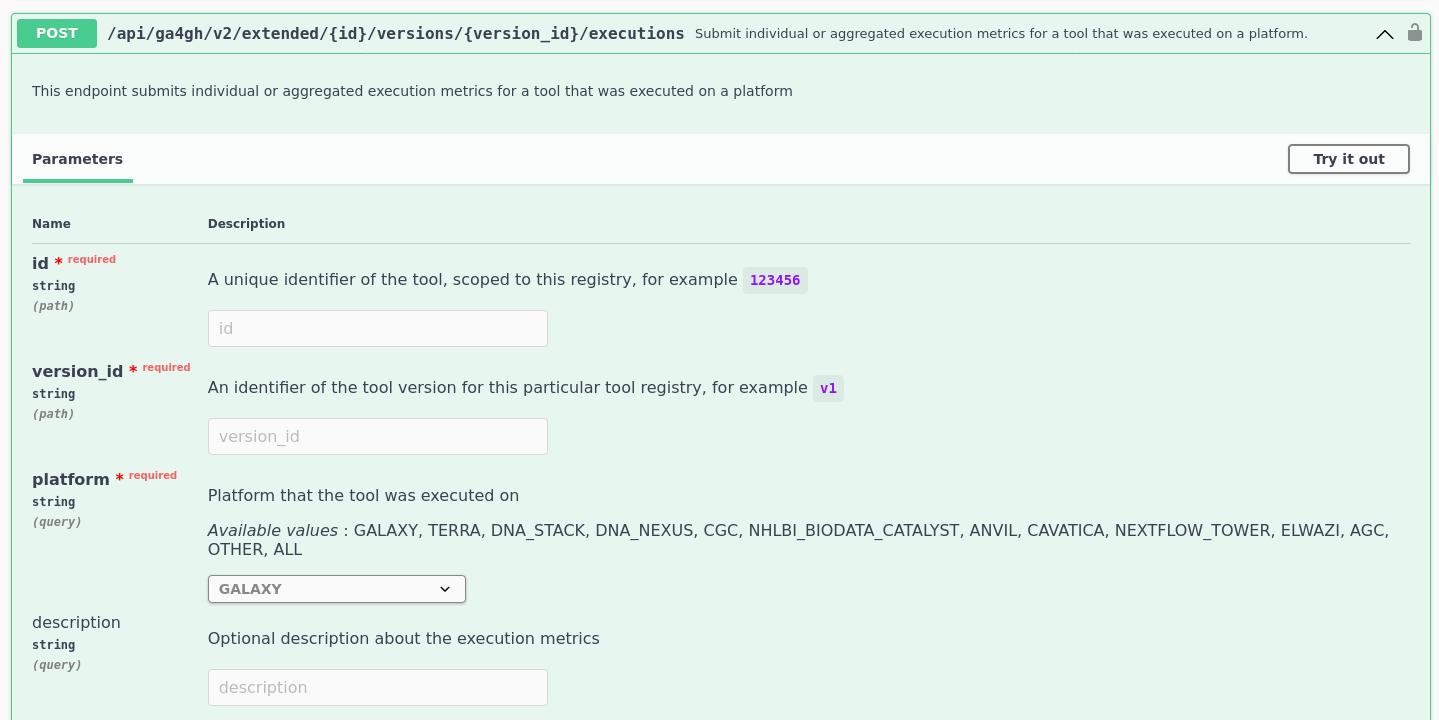
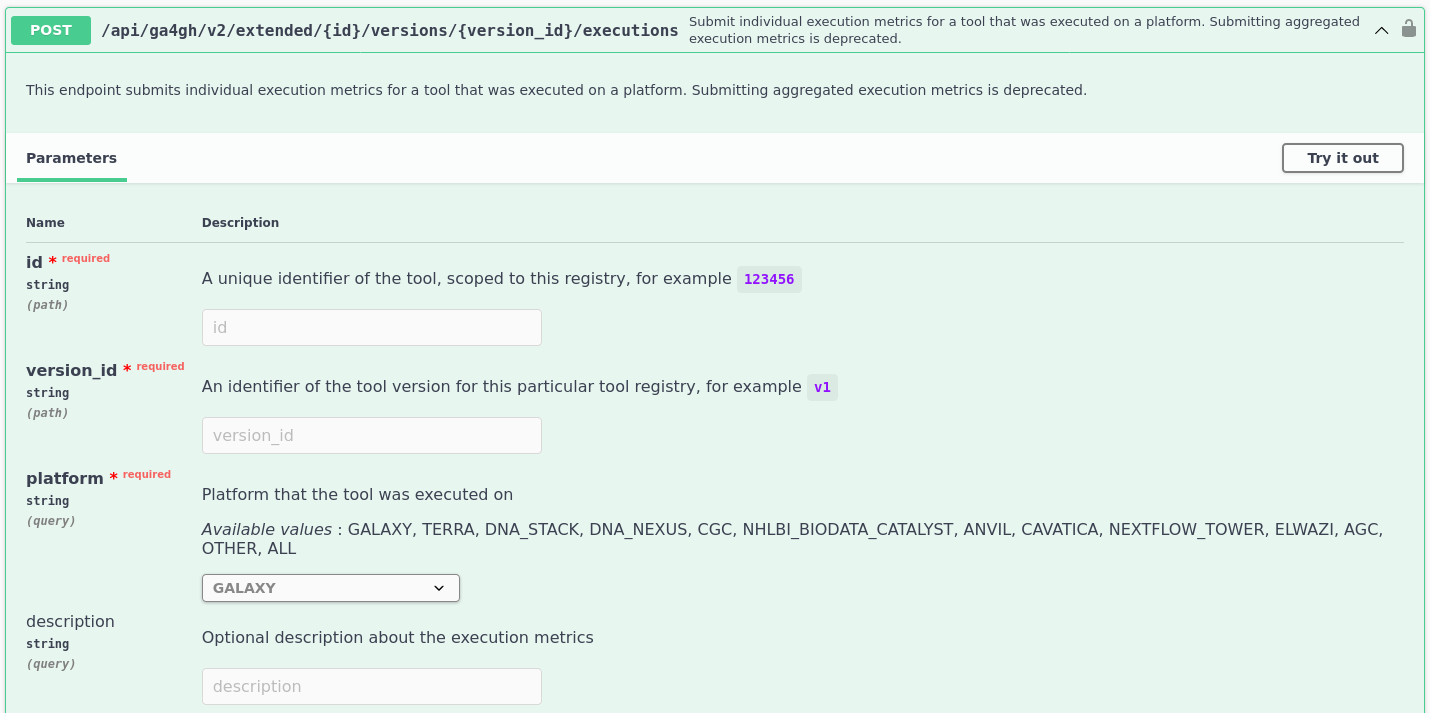
Update metrics docs

diff --git a/docs/advanced-topics/metrics.rst b/docs/advanced-topics/metrics.rst
@@ -1,8 +1,6 @@
 Workflow Metrics
 ================
 
-.. note:: Dockstore Workflow Metrics is currently in preview mode. Also note that the screenshots below were taken on our staging site.
-
 What are workflow metrics?
 ------------------------------------
 Workflow metrics are metrics of workflow executions on a platform. Metrics include things like the resources used during the execution, and how often workflow executions succeeded or failed.
@@ -23,15 +21,17 @@ As a platform owner, workflow metrics indicate to others that your platform is c
 How do I view workflow metrics?
 -------------------------------
 
-To view workflow metrics for a workflow on Dockstore, you will need to use the ``metrics`` feature flag.
+To search for workflows with metrics, navigate to the `search <https://dockstore.org/search>`_ page and select a platform for the Execution Metrics and/or Validation Metrics facets.
 
-To use the ``metrics`` feature flag, append ``metrics`` to the Dockstore URL as a query parameter. You only need to do this once, unless you refresh/close your browser.
+.. figure:: /assets/images/docs/submit-metrics/metrics-search-facets.png
+    :alt: Metrics search facets
 
-For example, if you're on the https://dockstore.org page, append ``metrics`` such that it looks like this: https://dockstore.org?metrics.
+Select a workflow and click on the Versions tab. Versions that have metrics will have a check mark in the Metrics column.
 
-If you're on a page that already contains query parameters, indicated by the presence of a question mark, append ``metrics`` to the URL using an ampersand. For example, if you're on the https://dockstore.org/workflows/github.com/gatk-workflows/seq-format-conversion/BAM-to-Unmapped-BAM:3.0.0?tab=info page, append ``metrics`` such that it looks like https://dockstore.org/workflows/github.com/gatk-workflows/seq-format-conversion/BAM-to-Unmapped-BAM:3.0.0?tab=info&metrics.
+.. figure:: /assets/images/docs/submit-metrics/versions-metrics-column.png
+    :alt: Metrics column in Versions table
 
-After applying the ``metrics`` feature flag, a Metrics tab will appear when viewing a workflow on Dockstore. Click on the Metrics tab and you will see workflow metrics if they are available.
+Select a version with metrics then click on the Metrics tab to view the metrics available.
 
 .. figure:: /assets/images/docs/submit-metrics/metrics-tab.png
     :alt: Metrics tab
@@ -41,13 +41,13 @@ How do I submit workflow metrics?
 
 .. note:: Submitting workflow metrics is only available for admins, curators, and platform partners. If you're a platform owner and you don't have a platform partner user, please contact us via our `GitHub <https://github.com/dockstore/dockstore/issues>`_ issues or open a helpdesk ticket on `Discourse <https://discuss.dockstore.org/>`_ and we will help you get set up.
 
-Go to https://dockstore.org/api/static/swagger-ui/index.html#/extendedGA4GH/executionMetricsPost. This is the endpoint used to submit metrics to Dockstore. Click the "Try it out” button.
+Go to https://dockstore.org/api/static/swagger-ui/index.html#/extendedGA4GH/executionMetricsPost and provide your Dockstore token using the lock icon at the top right of the endpoint. This is the endpoint used to submit metrics to Dockstore. Click the "Try it out” button.
 
-First, fill out the query parameters. This is where you'll input information about which workflow was executed and what platform it was executed on.
+First, fill out the parameters. This is where you'll input information about which workflow was executed and what platform it was executed on.
 
 For the ``id`` parameter, provide the TRS ID of the workflow that you want to submit metrics for. For example, the `dockstore-tool-bamstats <https://dockstore.org/workflows/github.com/dockstore/dockstore-tool-bamstats/wdl:1.25-9?tab=info>`__ workflow has the TRS ID ``#workflow/github.com/dockstore/dockstore-tool-bamstats/wdl`` as shown in the “Info” tab with the label “TRS".
 
-For the ``version_id`` parameter, provide the name of the workflow version that was executed. It can be any version listed in the "Versions" tab of the workflow. For example, `dockstore-tool-bamstats <https://dockstore.org/workflows/github.com/dockstore/dockstore-tool-bamstats/wdl:1.25-9?tab=versions>`__ has the following versions currently: 1.25-9 and develop. It is recommended to submit execution metrics for versions that are unlikely to change, like tags.
+For the ``version_id`` parameter, provide the name of the workflow version that was executed. It can be any version listed in the "Versions" tab of the workflow. For example, `dockstore-tool-bamstats <https://dockstore.org/workflows/github.com/dockstore/dockstore-tool-bamstats/wdl:1.25-9?tab=versions>`__ has the following versions currently: ``1.25-9`` and ``develop``. It is recommended to submit execution metrics for versions that are unlikely to change, like tags.
 
 Select the ``platform`` that the workflow was executed on from the available values.
 
@@ -56,44 +56,87 @@ For the ``description``, you may provide an optional description about the metri
 .. figure:: /assets/images/docs/submit-metrics/query-parameters.png
     :alt: Query parameters for submitting metrics
 
+.. _Submit metrics request body schema:
+
 In the request body, provide the workflow execution metrics that you want to submit. Click on Schema to view the schema of the request body.
 
 .. figure:: /assets/images/docs/submit-metrics/request-body-schema.png
     :alt: Request body schema for submitting metrics
 
-You can provide a individual executions through ``runExecutions`` and ``validationExecutions``.
+You can provide a individual executions through ``runExecutions``, ``taskExecutions``, and ``validationExecutions``.
 
-A run execution is an execution that runs the workflow. The only required metric for run executions is ``executionStatus``. If you want to provide additional metrics that are not defined in the schema, use the ``additionalProperties`` key to provide your metric.
+.. note::
+   Each execution must have a unique ``executionId`` for the workflow, workflow version, and platform that it belongs to. It is your responsibility to ensure the uniqueness of the execution IDs.
+
+A ``RunExecution`` is a workflow execution. The required fields are:
+
+- ``executionId``
+- ``dateExecuted``
+- ``executionStatus``
+
+If you want to provide additional metrics that are not defined in the schema, use the ``additionalProperties`` key to provide your metric.
 
 .. figure:: /assets/images/docs/submit-metrics/run-executions-schema.png
     :alt: Schema for run executions
 
-A validation execution is an execution of a validator tool, like miniwdl, on the workflow. The following are required for a validation execution: 
+A ``TaskExecution`` contains a list of task executions that were executed during a workflow execution. The required fields are:
 
+- ``executionId``
+- ``dateExecuted``
+- A list of ``taskExecutions``. A task execution follows the ``RunExecution`` schema.
+
+.. figure:: /assets/images/docs/submit-metrics/task-executions-schema.png
+    :alt: Schema for task executions
+
+A ``ValidationExecution`` is an execution of a validator tool, like miniwdl, on the workflow. The required fields are: 
+
+- ``executionId``
+- ``dateExecuted``
 - ``validatorTool``
 - ``validatorToolVersion``
 - ``isValid``
-- ``dateExecuted``
 
 If you want to provide additional metrics that are not defined in the schema, use the ``additionalProperties`` key to provide your metric.
 
 .. figure:: /assets/images/docs/submit-metrics/validation-executions-schema.png
     :alt: Schema for validation executions
-
-Instead of providing individual executions, you may also provide aggregated metrics that summarize data for multiple executions through ``aggregatedExecutions``. There are no required fields, but you must provide at least one metric. If you want to provide aggregated metrics that are not defined in the schema, use the ``additionalAggregatedMetrics`` key to provide your metric.
-
-.. figure:: /assets/images/docs/submit-metrics/aggregated-metrics-schema.png
-    :alt: Schema for aggregated metrics
     
-Lastly, provide your Dockstore token using the lock icon at the top right of the endpoint.
+.. _Submitting metrics example:
 
-Below is an example of what a request for submitting individual execution metrics looks like. The request is for a workflow that was executed on Terra. The request body submits one run execution that was successful and took 30 seconds to execute, and one validation execution of miniwdl version 1.9.1 which validated the workflow successfully.
+Submitting metrics example
+**************************
+
+The following is an example of how to submit metrics for version 1.25-9 of the `dockstore-tool-bamstats <https://dockstore.org/workflows/github.com/dockstore/dockstore-tool-bamstats/wdl:1.25-9?tab=info>`__ workflow that was executed on Terra. 
+
+.. _Submitting metrics example parameters:
+
+The parameters are:
+
+.. list-table::
+   :widths: 30 70
+   :header-rows: 1
+
+   * - Parameter
+     - Value
+   * - id
+     - #workflow/github.com/dockstore/dockstore-tool-bamstats/wdl
+   * - version_id
+     - 1.25-9
+   * - platform
+     - TERRA
+
+The request body contains three executions in total:
+
+- One workflow execution that was successful and took 30 seconds to execute
+- One task execution list consisting of one task execution that failed and took 1 second to execute  
+
+  - Note: there is only one task execution because this workflow only contains one task
+- One validation execution of miniwdl version 1.9.1 which validated the workflow successfully
 
 .. figure:: /assets/images/docs/submit-metrics/individual-executions-example.png
-   :alt: Example request for submitting individual run executions and validation executions
+   :alt: Example request for submitting individual workflow executions, task executions and validation executions
 
-
-The curl command results in something like:
+The curl command looks something like:
 
 .. code:: bash
 
@@ -105,50 +148,209 @@ The curl command results in something like:
       -d '{
       "runExecutions": [
          {
+            "executionId": "2c8c7c45-d4e6-4a0c-891d-a28e7c995c70",
+            "dateExecuted": "2023-03-31T15:06:49.888745366Z",
             "executionStatus": "SUCCESSFUL",
             "executionTime": "PT30S"
          }
       ],
+      "taskExecutions": [
+         {
+            "executionId": "127540b0-530f-44c5-9e76-6653755f3fd6",
+            "dateExecuted": "2023-03-01T15:06:49.888745366Z",
+            "taskExecutions": [
+            {
+               "executionId": "54e85b77-b2d9-4176-8cea-b6ce9cc25cc8",
+               "dateExecuted": "2023-03-01T15:06:49.888745366Z",
+               "executionStatus": "FAILED_RUNTIME_INVALID",
+               "executionTime": "PT1S"
+            }
+            ]
+         }
+      ],
       "validationExecutions": [
          {
+            "executionId": "009512c1-92a7-4880-9243-2a1bfe6b78cd",
+            "dateExecuted": "2023-03-31T15:06:49.888745366Z",
             "validatorTool": "miniwdl",
             "validatorToolVersion": "1.9.1",
-            "isValid": true,
-            "dateExecuted": "2023-03-31T15:06:49.888745366Z"
+            "isValid": true
          }
       ]
    }'
 
 If it was submitted successfully, you should receive a ``204`` response code. 
 
-Below is an example of what a request for submitting aggregated execution metrics looks like. The request body submits an aggregated execution status metric, indicating that the workflow was successfully executed 5 times, and it failed twice, once because it was run time invalid and once because it was semantically invalid.
+.. _View submitted execution:
 
-.. figure:: /assets/images/docs/submit-metrics/aggregated-executions-example.png
-   :alt: Example request for submitting aggregated metrics
+How do I view a submitted execution?
+------------------------------------
 
-The curl command results in something like:
+.. note:: Viewing executions is only available for admins, curators, and platform partners. If you're a platform owner and you don't have a platform partner user, please contact us via our `GitHub <https://github.com/dockstore/dockstore/issues>`_ issues or open a helpdesk ticket on `Discourse <https://discuss.dockstore.org/>`_ and we will help you get set up.
+
+To view an execution that you previously submitted, you can retrieve it by its execution ID.
+
+Go to https://dockstore.org/api/static/swagger-ui/index.html#/extendedGA4GH/executionGet and provide your Dockstore token using the lock icon at the top right of the endpoint.
+
+Fill out the parameters. This is where you'll input information about which workflow, version, and platform the execution belongs to. It should be the same values that you used when you submitted the execution to Dockstore.
+
+In addition, specify the execution ID of the execution you want to view. Recall that the execution ID is a value that you assigned the execution when you submitted the execution.
+
+.. figure:: /assets/images/docs/submit-metrics/get-execution-parameters.png
+    :alt: Parameters for getting an execution
+
+Getting an execution example
+****************************
+
+We'll retrieve an execution that was submitted in :ref:`this example<Submitting metrics example>`.
+
+Provide the same ``id``, ``version_id`` and ``platform`` :ref:`parameter values<Submitting metrics example parameters>`. 
+
+Next, we'll provide the execution ID of the workflow execution that was submitted, which was ``2c8c7c45-d4e6-4a0c-891d-a28e7c995c70``.
+
+.. figure:: /assets/images/docs/submit-metrics/get-execution-example.png
+    :alt: Get execution example
+
+The curl command looks something like:
 
 .. code:: bash
 
-   curl -X 'POST' \
+   curl -X 'GET' \
+      'https://dockstore.org/api/api/ga4gh/v2/extended/%23workflow%2Fgithub.com%2Fdockstore%2Fdockstore-tool-bamstats%2Fwdl/versions/1.25-9/execution?platform=TERRA&executionId=2c8c7c45-d4e6-4a0c-891d-a28e7c995c70' \
+      -H 'accept: application/json' \
+      -H 'Authorization: Bearer imafakebearertoken'
+
+If the request was successful, you should receive a ``200`` status code and the execution that you requested, like below:
+
+.. code:: bash
+
+   {
+      "aggregatedExecutions": [],
+      "runExecutions": [
+         {
+            "additionalProperties": null,
+            "cost": null,
+            "cpuRequirements": null,
+            "dateExecuted": "2023-03-31T15:06:49.888745366Z",
+            "executionId": "2c8c7c45-d4e6-4a0c-891d-a28e7c995c70",
+            "executionStatus": "SUCCESSFUL",
+            "executionTime": "PT30S",
+            "memoryRequirementsGB": null,
+            "region": null
+         }
+      ],
+      "taskExecutions": [],
+      "validationExecutions": []
+   }
+
+How do I update workflow metrics?
+---------------------------------
+
+.. note:: Updating workflow metrics is only available for admins, curators, and platform partners. If you're a platform owner and you don't have a platform partner user, please contact us via our `GitHub <https://github.com/dockstore/dockstore/issues>`_ issues or open a helpdesk ticket on `Discourse <https://discuss.dockstore.org/>`_ and we will help you get set up.
+
+You may want to update metrics that you have previously submitted because you received new metrics for the execution at a later time.
+
+Go to https://dockstore.org/api/static/swagger-ui/index.html#/extendedGA4GH/ExecutionMetricsUpdate and provide your Dockstore token using the lock icon at the top right of the endpoint. This is the endpoint used to update metrics that were submitted Dockstore. Click the "Try it out” button.
+
+First, fill out the parameters. This is where you'll input information about which workflow and version was executed and what platform it was executed on. 
+
+For the ``id``, ``version_id``, and ``platform`` parameters, provide the values that you previously used when submitting the metrics you want to update to Dockstore. This ensures that the correct metrics are updated. For example, to update the metrics that were submitted in the :ref:`Submitting metrics example<Submitting metrics example>`, provide the same ``id``, ``version_id`` and ``platform``.
+
+For the ``description``, you may provide an optional description about the metrics you're updating.
+
+.. figure:: /assets/images/docs/submit-metrics/update-metrics-query-parameters.png
+    :alt: Query parameters for submitting metrics
+
+In the request body, provide the updated workflow execution metrics that you want to update in Dockstore. Click on Schema to view the schema of the request body. It is the same schema used for :ref:`submitting metrics<Submit metrics request body schema>`.
+
+.. important::
+   Ensure that the execution you are updating have the same execution ID as the execution you previously submitted.
+
+You must provide the full execution object when updating the execution. See :ref:`how to retrieve a submitted execution<View submitted execution>` if you do not have the full execution object.
+
+Only metrics that are optional during submission can be updated. For example, for a workflow ``RunExecution``, you may update ``executionTime``, but you may not update ``executionStatus`` because it is a required field, indicated by the red asterisk.
+
+.. figure:: /assets/images/docs/submit-metrics/run-executions-schema.png
+    :alt: Schema for run executions
+
+Click Execute. You should receive a ``207`` reponse code with a response body containing individual response codes for each execution you wanted to update.
+
+Updating an execution example
+*****************************
+
+We'll update an execution that was submitted in :ref:`this example<Submitting metrics example>`.
+
+Provide the same ``id``, ``version_id`` and ``platform`` :ref:`parameter values<Submitting metrics example parameters>`.
+
+We will modify the execution time of the workflow ``RunExecution``. Recall that this is the workflow execution submitted:
+
+.. code:: bash
+
+   "runExecutions": [
+      {
+         "executionId": "2c8c7c45-d4e6-4a0c-891d-a28e7c995c70",
+         "dateExecuted": "2023-03-31T15:06:49.888745366Z",
+         "executionStatus": "SUCCESSFUL",
+         "executionTime": "PT30S"
+      }
+   ]
+
+This is the updated workflow execution that now has a cost metric. 
+
+.. code:: bash
+
+   "runExecutions": [
+      {
+         "executionId": "2c8c7c45-d4e6-4a0c-891d-a28e7c995c70",
+         "dateExecuted": "2023-03-31T15:06:49.888745366Z",
+         "executionStatus": "SUCCESSFUL",
+         "executionTime": "PT30S",
+         "cost": {
+            "value": 5.99
+         }
+      }
+   ]
+
+.. figure:: /assets/images/docs/submit-metrics/update-execution-example.png
+    :alt: Update execution example
+
+The curl looks something like the following:
+
+.. code:: bash
+
+   curl -X 'PUT' \
       'https://dockstore.org/api/api/ga4gh/v2/extended/%23workflow%2Fgithub.com%2Fdockstore%2Fdockstore-tool-bamstats%2Fwdl/versions/1.25-9/executions?platform=TERRA' \
-      -H 'accept: */*' \
-      -H 'Authorization: Bearer iamafakebearertoken' \
+      -H 'accept: application/json' \
+      -H 'Authorization: Bearer imafakebearertoken' \
       -H 'Content-Type: application/json' \
       -d '{
-      "aggregatedExecutions": [
+      "runExecutions": [
          {
-            "executionStatusCount": {
-            "count": {
-               "SUCCESSFUL": 5,
-               "FAILED_RUNTIME_INVALID": 1,
-               "FAILED_SEMANTIC_INVALID": 1
-            },
-            "numberOfSuccessfulExecutions": 5,
-            "numberOfFailedExecutions": 2
+            "executionId": "2c8c7c45-d4e6-4a0c-891d-a28e7c995c70",
+            "dateExecuted": "2023-03-31T15:06:49.888745366Z",
+            "executionStatus": "SUCCESSFUL",
+            "executionTime": "PT30S",
+            "cost": {
+            "value": 5.99
             }
          }
       ]
    }'
 
-If it was submitted successfully, you should receive a ``204`` response code. 
+You should receive a ``207`` status code and a response body like below:
+
+.. code:: bash
+
+   {
+      "executionResponses": [
+         {
+            "error": null,
+            "executionId": "2c8c7c45-d4e6-4a0c-891d-a28e7c995c70",
+            "status": 200
+         }
+      ]
+   }
+
+The response body indicates that the update for execution with execution ID ``2c8c7c45-d4e6-4a0c-891d-a28e7c995c70`` was successful.
+
+You can verify that the field was updated by :ref:`viewing the execution<View submitted execution>`.
